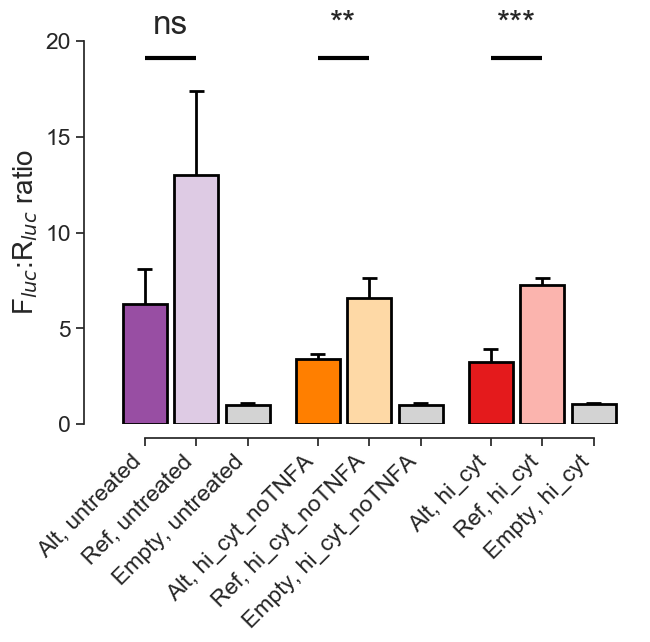
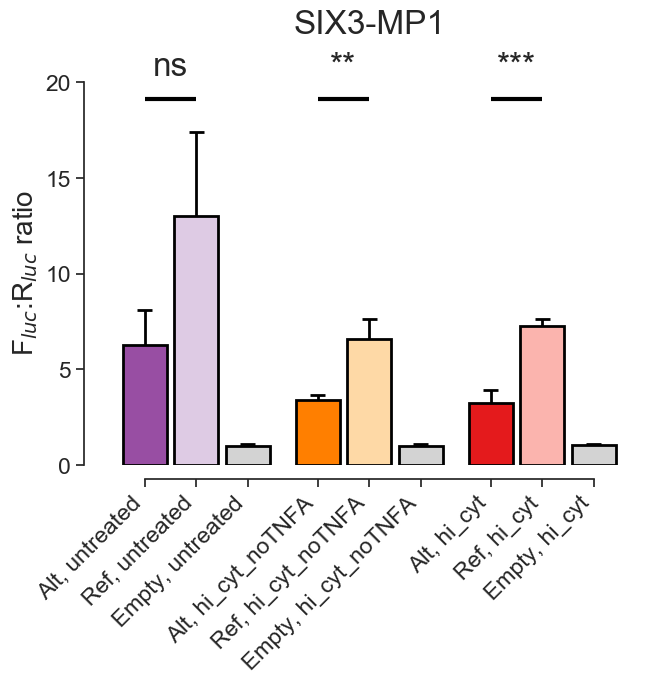
advance

diff --git a/README.md b/README.md
@@ -83,11 +83,17 @@ and plot:
   "Empty, untreated": [1.0, 1.0, 1.0]
 }
 ```
-![example ratio plot](https://github.com/anthony-aylward/luciferase/raw/master/example/ratio.png)
+![example ratio plot](example/ratio.png)
 
 ## Meta-analysis
 
 It may be that we have performed two or more experiments
 (from separate minipreps) and wish to meta-analyze the results. As an example,
 let's consider the results of two identical experiments on a regulatory
-variant at the _SIX3_ locus: [SIX3-MP0](example/six3-mp0.json) and [SIX3-MP1](example/six3-mp1.json).
+variant at the _SIX3_ locus: [SIX3-MP0](example/six3-mp0.json) and [SIX3-MP1](example/six3-mp1.json). First we'll plot both datasets separately:
+```sh
+luciferase-barplot six3-mp0.json six3-mp0.png --light-colors '#DECBE4' '#FED9A6' '#FBB4AE' --dark-colors '#984EA3' '#FF7F00' '#E41A1C' --title 'SIX3-MP0'
+luciferase-barplot six3-mp1.json six3-mp1.png --light-colors '#DECBE4' '#FED9A6' '#FBB4AE' --dark-colors '#984EA3' '#FF7F00' '#E41A1C' --title 'SIX3-MP1'
+```
+
+<img src="example/six3-mp0.png" width="450"/><img src="example/six3-mp1.png" width="450"/>
